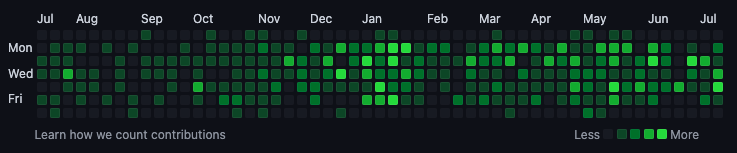
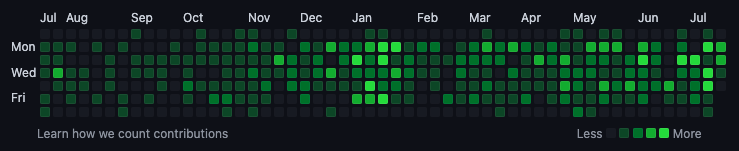
starebase

diff --git a/src/components/Header.jsx b/src/components/Header.jsx
@@ -19,11 +19,11 @@ const Header = (props) => {
       <div className="goo-container">
         <Goo />
       </div>
-      {!store.randomNumber0or1 && <img className="moon-img" src="./assets/img/moon.png" alt="moon"/>}
-      <div className={store.randomNumber0or1 ? "container-header-image-person" : "container-header-image-person top-27"} id="about">
+      {/* {!store.randomNumber0or1 && <img className="moon-img" src="./assets/img/moon.png" alt="moon" />} */}
+      <div className={"container-header-image-person"} id="about">
         <PortfolioImg />
         <div className="w3-row icon-container">
-          <div className="w3-quarter icon-hover">
+          <div className="w3-third icon-hover">
             <a
               target="_blank"
               rel="noopener noreferrer"
@@ -53,35 +53,7 @@ const Header = (props) => {
             </a>
           </div>
 
-          <div className="w3-quarter icon-hover">
-            <a
-              target="_blank"
-              rel="noopener noreferrer"
-              href="https://www.facebook.com/profile.php?id=100065432952528"
-            >
-              <svg viewBox="0 0 128 128">
-                <g id="original">
-                  <rect
-                    id="Blue"
-                    fill="#3d5a98"
-                    x="4.83"
-                    y="4.83"
-                    width="118.35"
-                    height="118.35"
-                    rx="6.53"
-                    ry="6.53"
-                  ></rect>
-                  <path
-                    id="f"
-                    fill="#fff"
-                    d="M86.48,123.17V77.34h15.38l2.3-17.86H86.48V48.08c0-5.17,1.44-8.7,8.85-8.7h9.46v-16A126.56,126.56,0,0,0,91,22.7C77.38,22.7,68,31,68,46.31V59.48H52.62V77.34H68v45.83Z"
-                  ></path>
-                </g>
-              </svg>
-            </a>
-          </div>
-
-          <div className="w3-quarter icon-hover">
+          <div className="w3-third icon-hover">
             <a
               target="_blank"
               rel="noopener noreferrer"
@@ -103,7 +75,7 @@ const Header = (props) => {
             </a>
           </div>
 
-          <div className="w3-quarter icon-hover">
+          <div className="w3-third icon-hover">
             <a
               target="_blank"
               rel="noopener noreferrer"

diff --git a/src/components/Links.jsx b/src/components/Links.jsx
@@ -37,34 +37,6 @@ const Links = () => {
         <a
           target="_blank"
           rel="noopener noreferrer"
-          href="https://www.facebook.com/profile.php?id=100065432952528"
-        >
-          <svg viewBox="0 0 128 128">
-            <g id="original">
-              <rect
-                id="Blue"
-                fill="#3d5a98"
-                x="4.83"
-                y="4.83"
-                width="118.35"
-                height="118.35"
-                rx="6.53"
-                ry="6.53"
-              ></rect>
-              <path
-                id="f"
-                fill="#fff"
-                d="M86.48,123.17V77.34h15.38l2.3-17.86H86.48V48.08c0-5.17,1.44-8.7,8.85-8.7h9.46v-16A126.56,126.56,0,0,0,91,22.7C77.38,22.7,68,31,68,46.31V59.48H52.62V77.34H68v45.83Z"
-              ></path>
-            </g>
-          </svg>
-        </a>
-      </div>
-
-      <div className="link-icon icon-hover">
-        <a
-          target="_blank"
-          rel="noopener noreferrer"
           href="https://github.com/sobrien-banyan"
         >
           <svg viewBox="0 0 128 128">

diff --git a/src/components/Context.jsx b/src/components/Context.jsx
@@ -20,7 +20,8 @@ export const MainContextProvider = (props) => {
   });
   const [themeBoolean, setThemeBoolean] = useState(true);
   const [hueRotate, setHueRotate] = useState("");
-  const [randomNumber0or1] = useState(useMemo(() => Math.floor(Math.random() * 2), []));
+  const [randomNumber0or1] = useState(0);
+  // const [randomNumber0or1] = useState(useMemo(() => Math.floor(Math.random() * 2), []));
 
   return (
     <MainContext.Provider

diff --git a/src/App.css b/src/App.css
@@ -67,7 +67,7 @@ a {
   justify-content: center;
   align-items: center;
   flex-direction: column;
-  background: url('./assets/img/exoplanets.jpeg');
+  background: url('./assets/img/starbase.jpeg');
   background-size: cover;
 }
 
@@ -104,6 +104,8 @@ a {
 .icon-container {
   visibility: visible;
   max-width: 280px;
+  position: relative;
+  bottom: 13px;
 }
 
 .icon-hover :hover{

diff --git a/src/components/GitHubContribution.jsx b/src/components/GitHubContribution.jsx
@@ -3,7 +3,7 @@ import React from "react";
 const GitHubContribution = () => {
   return (
     <div className="w3-row w3-padding-32">
-      <p>1527 Total GitHub Contributions</p>
+      <p>1625 Total GitHub Contributions</p>
       <a
         target="_blank"
         rel="noopener noreferrer"

diff --git a/src/components/goo/styles.css b/src/components/goo/styles.css
@@ -24,7 +24,7 @@
     position: absolute;
     will-change: transform;
     border-radius: 50%;
-    background: #425b9a;
+    background: #1e201f;
     box-shadow: 10px 10px 5px 0px rgba(0, 0, 0, 0.75);
     opacity: 0.6;
   }
